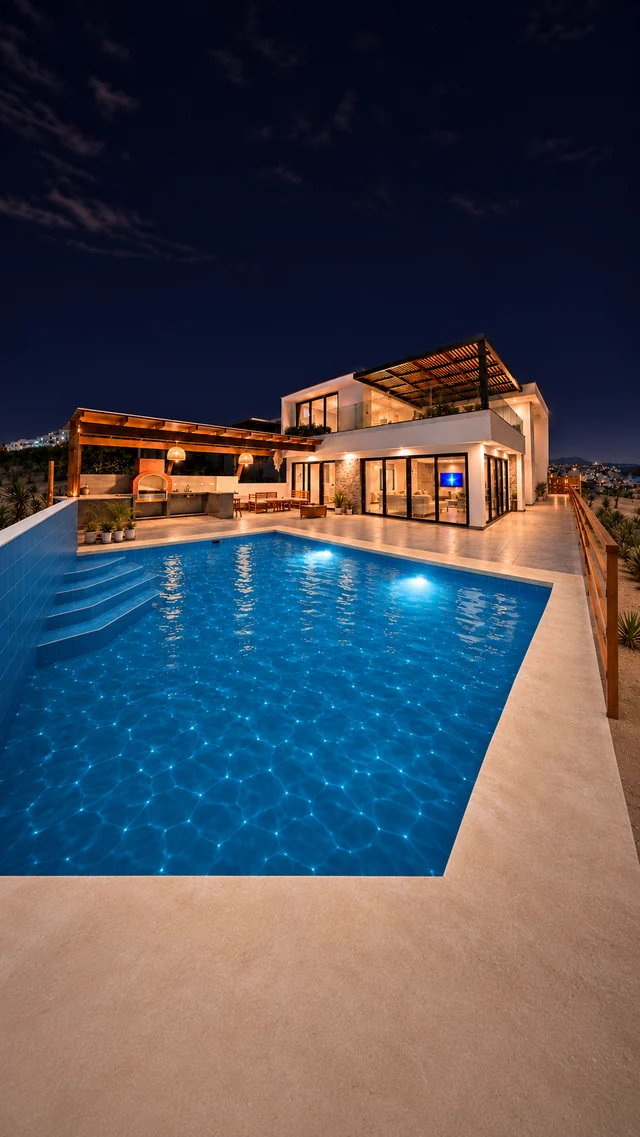
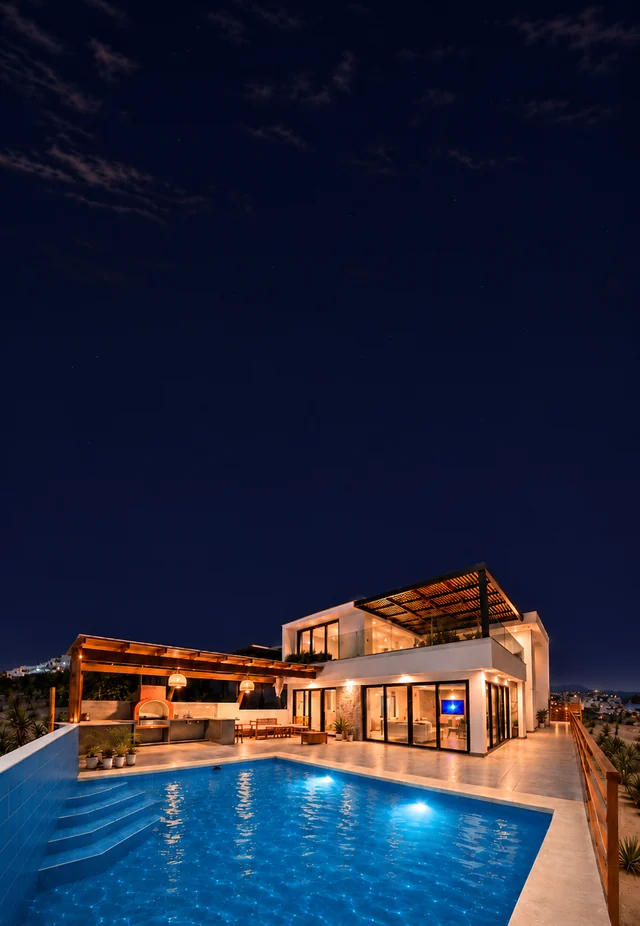
Portada móvil: nueva foto (piscina movil 2) recortada abajo, encuadre y oscurecido ajustados

diff --git a/css/styles.css b/css/styles.css
@@ -225,19 +225,16 @@ section[id] { scroll-margin-top: 72px; }
   transform: scale(1.02);
   animation: heroIn 4.2s cubic-bezier(.22, .61, .24, 1) .2s both;
 }
-@media (max-width: 767px) {
-  /* Foto vertical: se baja para que la casa quede bajo los textos (se recorta parte del deck de abajo)
-     y su borde superior se funde con el fondo noche */
-  .hero-img {
-    position: relative; top: 22%;
-    object-position: 50% 0;
-    -webkit-mask-image: linear-gradient(180deg, transparent 0, #000 18%);
-            mask-image: linear-gradient(180deg, transparent 0, #000 18%);
-  }
-}
+
 .hero-overlay {
   position: absolute; inset: 0; z-index: 1; pointer-events: none;
   background: linear-gradient(180deg, rgba(7,13,23,.35) 0%, rgba(7,13,23,0) 30%, rgba(7,13,23,0) 62%, rgba(7,13,23,.8) 100%);
+}
+@media (max-width: 767px) {
+  /* Foto vertical: un poco a la derecha para no cortar la casa */
+  .hero-img { object-position: 60% 50%; }
+  /* Oscurecido inferior más suave para que la piscina se vea */
+  .hero-overlay { background: linear-gradient(180deg, rgba(7,13,23,.35) 0%, rgba(7,13,23,0) 30%, rgba(7,13,23,0) 75%, rgba(7,13,23,.55) 100%); }
 }
 .hero-head, .hero-trust { text-shadow: 0 1px 14px rgba(7,13,23,.35); }
 

diff --git a/index.html b/index.html
@@ -135,7 +135,7 @@
   <div class="hero-media" id="heroMedia">
     <!-- Celular (<768px): foto vertical; tablet y escritorio: foto horizontal -->
     <picture>
-      <source media="(max-width: 767px)" srcset="assets/img/hero-movil-sm.webp 640w, assets/img/hero-movil.webp 941w" sizes="100vw" width="941" height="1672">
+      <source media="(max-width: 767px)" srcset="assets/img/hero-movil-sm.webp 640w, assets/img/hero-movil.webp 941w" sizes="100vw" width="941" height="1362">
       <img class="hero-img" src="assets/img/hero-noche.webp"
            srcset="assets/img/hero-noche-sm.webp 1000w, assets/img/hero-noche.webp 1448w" sizes="100vw"
            width="1448" height="1086" fetchpriority="high" decoding="async"
